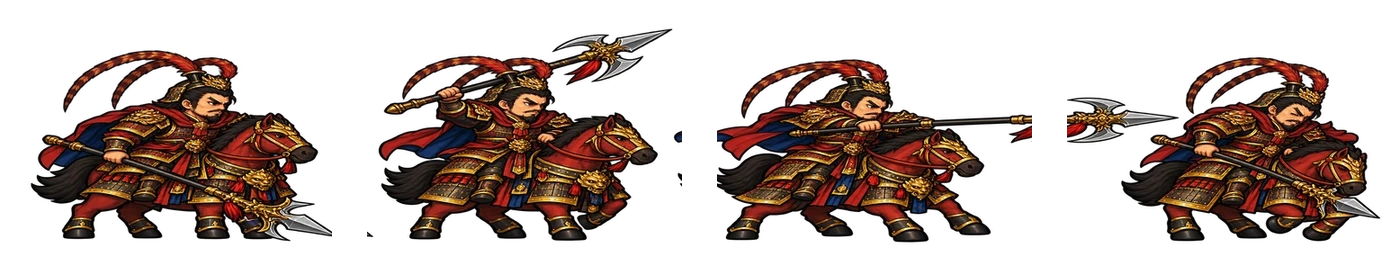
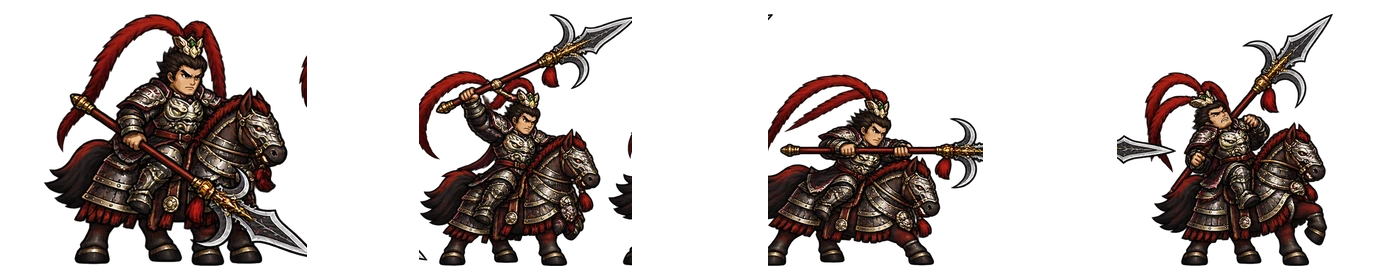
feat: redesign Lu Bu across all scenes

diff --git a/packages/web/src/officer-models.ts b/packages/web/src/officer-models.ts
@@ -25,7 +25,7 @@ export const officerManifest:OfficerEntry[]=[
   E('cao_pi','조비',c('cao_pi','strategist'),{story:'cao_pi-story-v1.webp',bust:'cao_pi-bust-v1.webp',duel:'officer-battle-wei-v2.webp'}),
   E('xu_chu','허저',c('xu_chu','infantry'),{story:'xu_chu-story-v1.webp',bust:'xu_chu-bust-v1.webp',duel:'officer-battle-wei-v2.webp'}),
   E('ma_chao','마초',{...c('ma_chao','cavalry'),...c('ma_chao','heavyCav',1,350,280)},{story:'ma_chao-story-v1.webp',bust:'ma_chao-bust-v1.webp',duel:'officer-battle-rivals-v2.webp'}),
-  E('lu_bu','여포',{...c('lu_bu','cavalry'),...c('lu_bu','heavyCav',1,350,280)},{story:'lu_bu-story-v1.webp',bust:'lu_bu-bust-v1.webp',duel:'officer-battle-rivals-v2.webp'}),
+  E('lu_bu','여포',{...c('lu_bu','cavalry'),...c('lu_bu','heavyCav',1,350,280)},{story:'lu_bu-story-v1.webp',bust:'lu_bu-bust-v1.webp',duel:'officers/lu_bu-duel-v2.webp'}),
   E('chen_gong','진궁',c('chen_gong','strategist'),{story:'chen_gong-story-v1.webp',bust:'chen_gong-bust-v1.webp',duel:'officer-battle-rivals-v2.webp'}),
   E('zhou_yu','주유',{...c('zhou_yu','strategist'),...c('zhou_yu','archer',1,350,280)},{story:'zhou_yu-story-v1.webp',bust:'zhou_yu-bust-v1.webp',duel:'officer-battle-rivals-v2.webp'}),
   E('liu_bei','유비',c('liu_bei','infantry')),E('guan_yu','관우',c('guan_yu','cavalry')),E('zhang_fei','장비',c('zhang_fei','spearman')),
@@ -71,7 +71,7 @@ export const officerBattleModel=officerBattleSheet;
 const duelRows:Record<string,{sheet:string;row:number;rows:number}>={
   sima_yi:{sheet:'officer-battle-sima',row:0,rows:4},sima_yi_young:{sheet:'officer-battle-sima',row:1,rows:4},sima_lang:{sheet:'officer-battle-sima',row:2,rows:4},sima_fang:{sheet:'officer-battle-sima',row:3,rows:4},
   cao_zhen:{sheet:'officer-battle-wei',row:0,rows:4},cao_cao:{sheet:'officer-battle-wei',row:1,rows:4},cao_pi:{sheet:'officer-battle-wei',row:2,rows:4},xu_chu:{sheet:'officer-battle-wei',row:3,rows:4},
-  ma_chao:{sheet:'officer-battle-rivals',row:0,rows:4},lu_bu:{sheet:'officer-battle-rivals',row:1,rows:4},chen_gong:{sheet:'officer-battle-rivals',row:2,rows:4},zhou_yu:{sheet:'officer-battle-rivals',row:3,rows:4},
+  ma_chao:{sheet:'officer-battle-rivals',row:0,rows:4},lu_bu:{sheet:'officers/lu_bu-duel-v2.webp',row:0,rows:1},chen_gong:{sheet:'officer-battle-rivals',row:2,rows:4},zhou_yu:{sheet:'officer-battle-rivals',row:3,rows:4},
   sima_shi:{sheet:'officers/sima_shi-duel-v1.webp',row:0,rows:1},sima_zhao:{sheet:'officers/sima_zhao-duel-v1.webp',row:0,rows:1},
 };
 export function officerDuelModel(u:OfficerLike){const e=officerEntry(u);return e?duelRows[e.id]:undefined;}

diff --git a/packages/web/src/style.css b/packages/web/src/style.css
@@ -1549,7 +1549,7 @@ body.left-open .left-close{display:block;position:absolute;right:8px;top:8px;z-i
 .duel-stage.live-models .duel-fighter.motion-attack .officer-battle-model,
 .duel-stage.live-models .duel-fighter.motion-special .officer-battle-model{animation:none}
 .duel-stage.live-models .duel-fighter .officer-battle-model{background-position:var(--officer-x) var(--officer-y)!important}
-.duel-stage.live-models .duel-fighter.motion-attack .officer-battle-model[style*="sima_shi-duel"]{animation:mounted-duel-bob .42s ease-out}
+.duel-stage.live-models .duel-fighter.motion-attack .officer-battle-model:is([style*="sima_shi-duel"],[style*="lu_bu-duel"]){animation:mounted-duel-bob .42s ease-out}
 @keyframes mounted-duel-bob{0%,100%{translate:0 0}45%{translate:0 -4%}}
 
 /* 극한 출진 코스트 */

diff --git a/packages/web/test/officer-models.test.ts b/packages/web/test/officer-models.test.ts
@@ -35,5 +35,6 @@ describe('장수별 전투 SD와 대결 모델',()=>{
       if(duel)expect(duel.sheet,id).not.toBe(battle.action.sheet);
     }
     expect(officerDuelModelStyle({id:'lu_bu',name:'여포'})).toContain('--officer-x');
+    expect(officerDuelModel({id:'lu_bu',name:'여포'})?.sheet).toBe('officers/lu_bu-duel-v2.webp');
   });
 });

diff --git a/docs/art/장수-전투모델-재모델링-기준.md b/docs/art/장수-전투모델-재모델링-기준.md
@@ -321,7 +321,7 @@
 | 조비 | `cao_pi` | 책사 | 부채 | 작은 금관, 자주색 도포, 젊은 얼굴 | 1 |
 | 허저 | `xu_chu` | 보병 | 큰 칼 + 방패 | 거구에 드러낸 팔, 붉은 두건, 붉은 허리띠 | 1 |
 | 마초 | `ma_chao` | 중기병·기병 | 말 + 창 | 사자 투구, 흰 털 망토 | 1 |
-| 여포 | `lu_bu` | 중기병·기병 | 말 + 방천극 | 투구의 붉은 꿩깃 두 개, 적토마 | 1 |
+| 여포 | `lu_bu` | 중기병·기병 | 말 + 방천화극 | 수염 없는 각진 얼굴, 은흑색 귀면 흉갑, 좌우로 길게 휘는 붉은 꿩깃 두 개, 적토마 | 1 |
 | 진궁 | `chen_gong` | 책사 | 부채 | 검은 관, 짙은 갈색 도포, 짧은 수염 | 1 |
 | 주유 | `zhou_yu` | 궁병·책사 | 궁병 줄은 활, 책사 줄은 부채 | 젊은 미남, 금관, 붉은 망토 | 2 |
 
